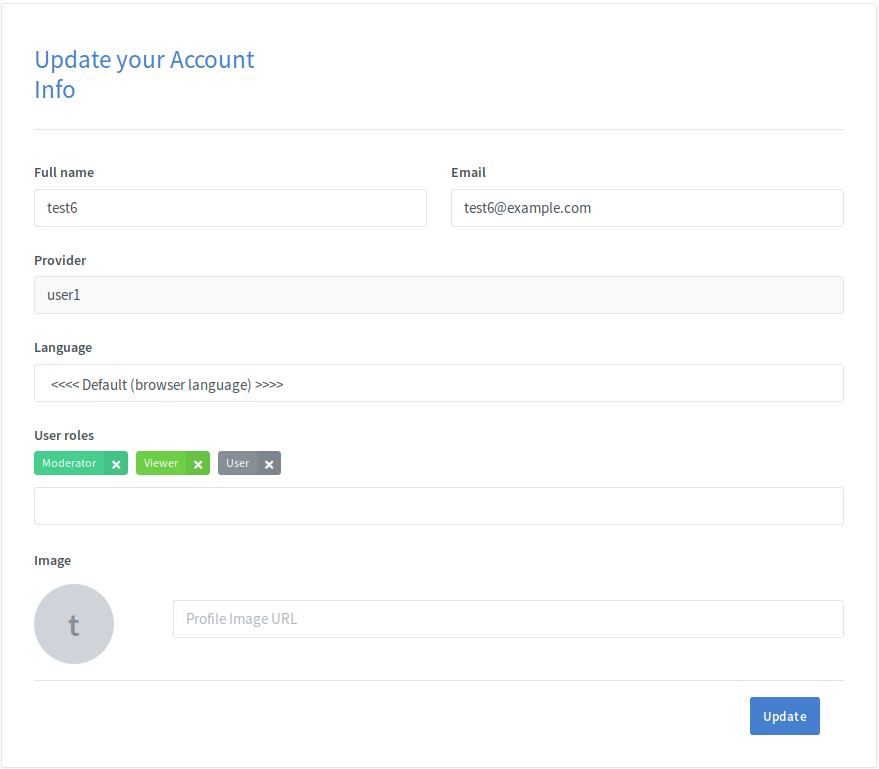
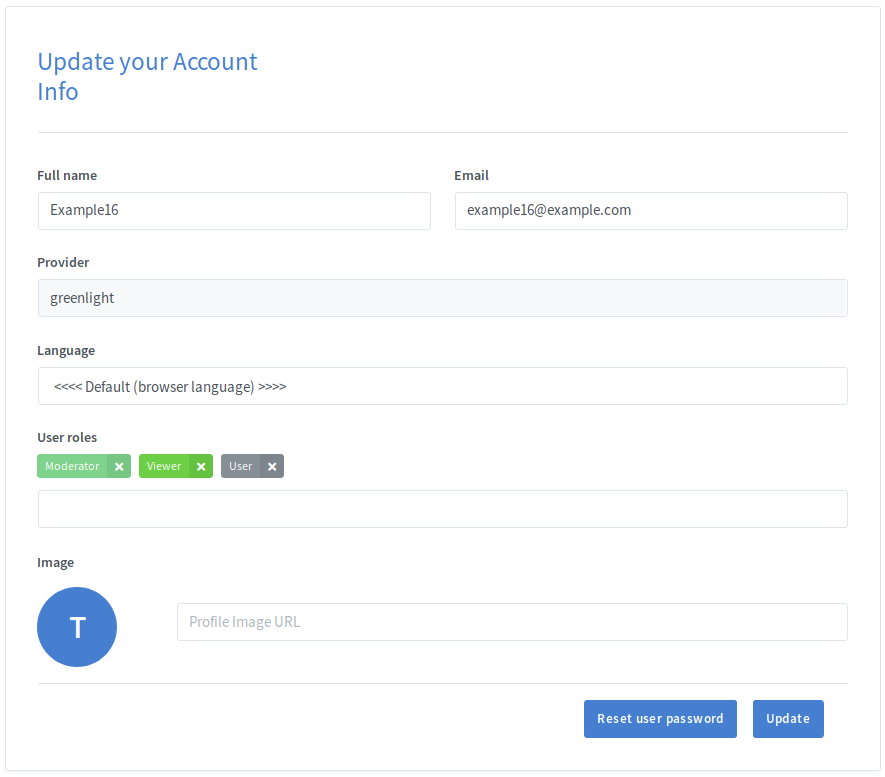
Greenlight v2.3.1 (#115)

diff --git a/_posts/2019-04-15-gl-admin.md b/_posts/2019-04-15-gl-admin.md
@@ -98,6 +98,12 @@ From the edit user view, Administrators are able to assign and remove roles for 
 
 **NOTE:** While a user may be assigned multiple roles only the role with the highest priority will be used for determining a user's permissions
 
+### Resetting User Passwords
+
+If the user has forgotten their password, the Administrator can send them an email that they can use to reset their password. 
+
+To reset a user's password, select Edit for the specified user. This will open the edit user view. From there, the Administrator just needs to click the `Reset user password` button and an email will be sent out to the user with the required instructions.
+
 ## Server Recordings
 
 Through the Server Recordings tab, Administrators are able to view all of the recordings that exist on their BigBlueButton server.
